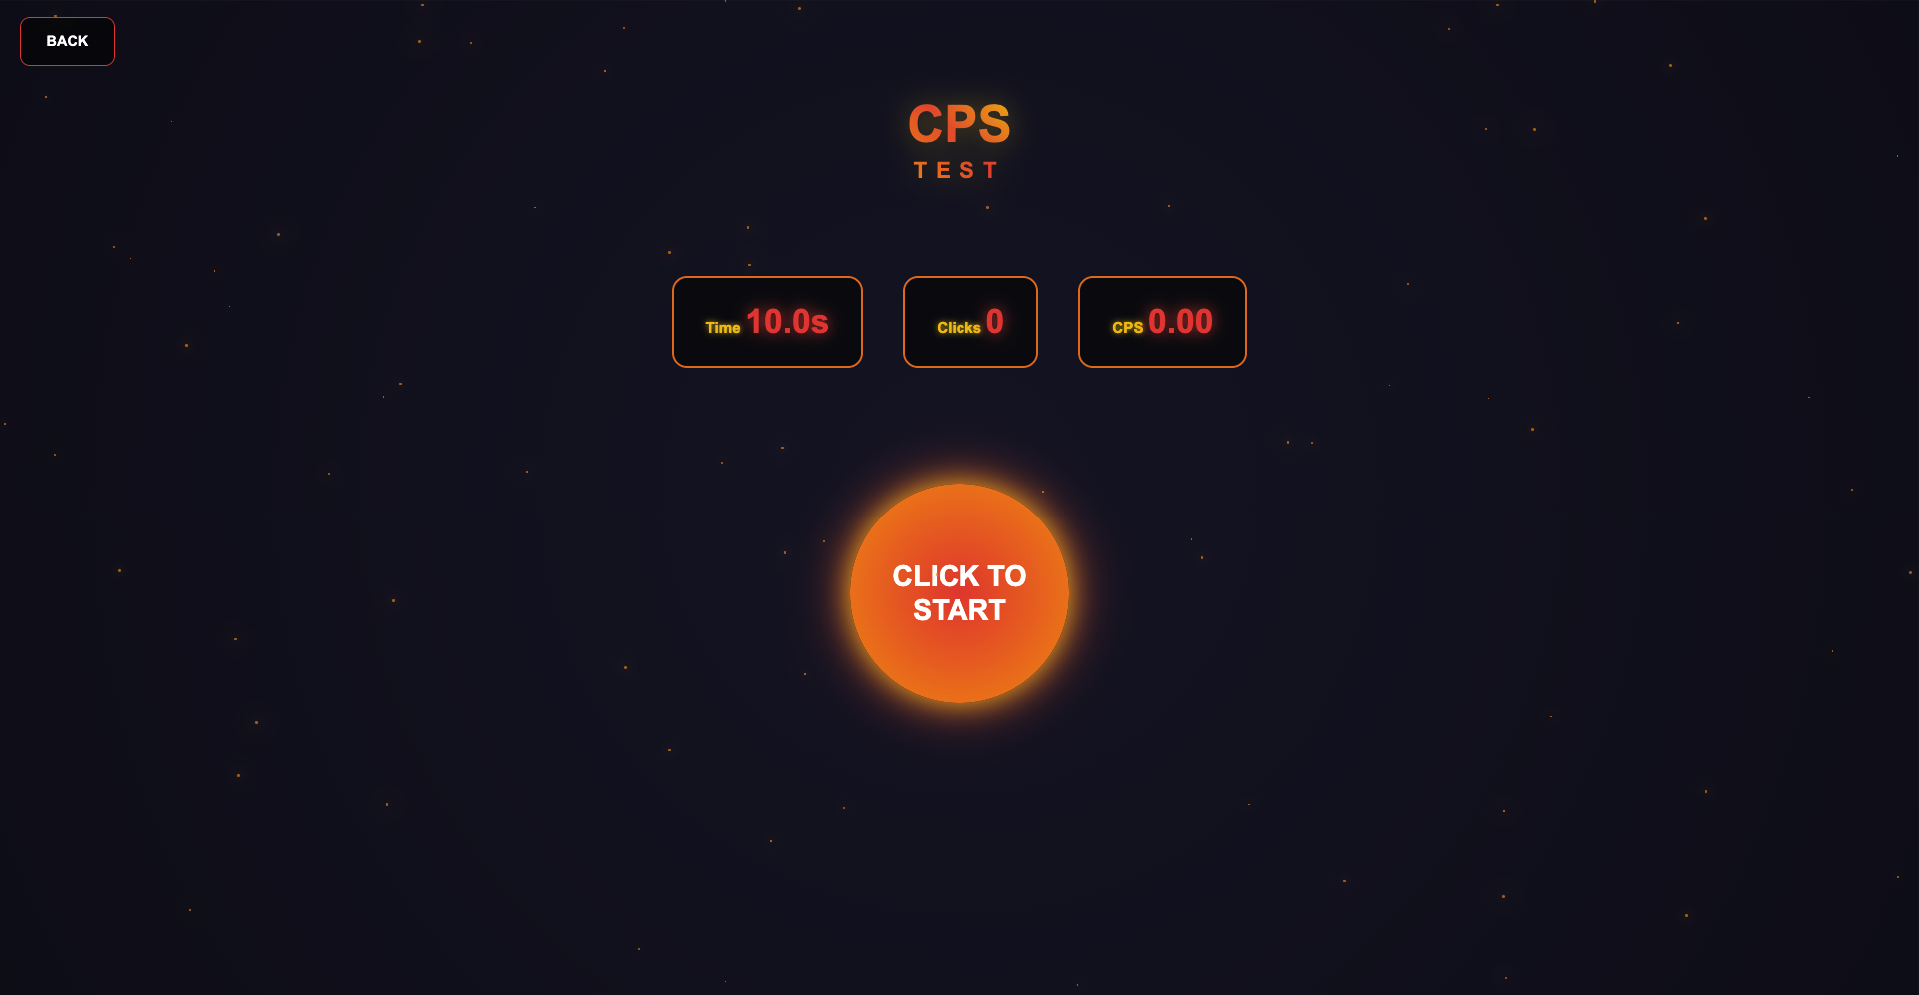
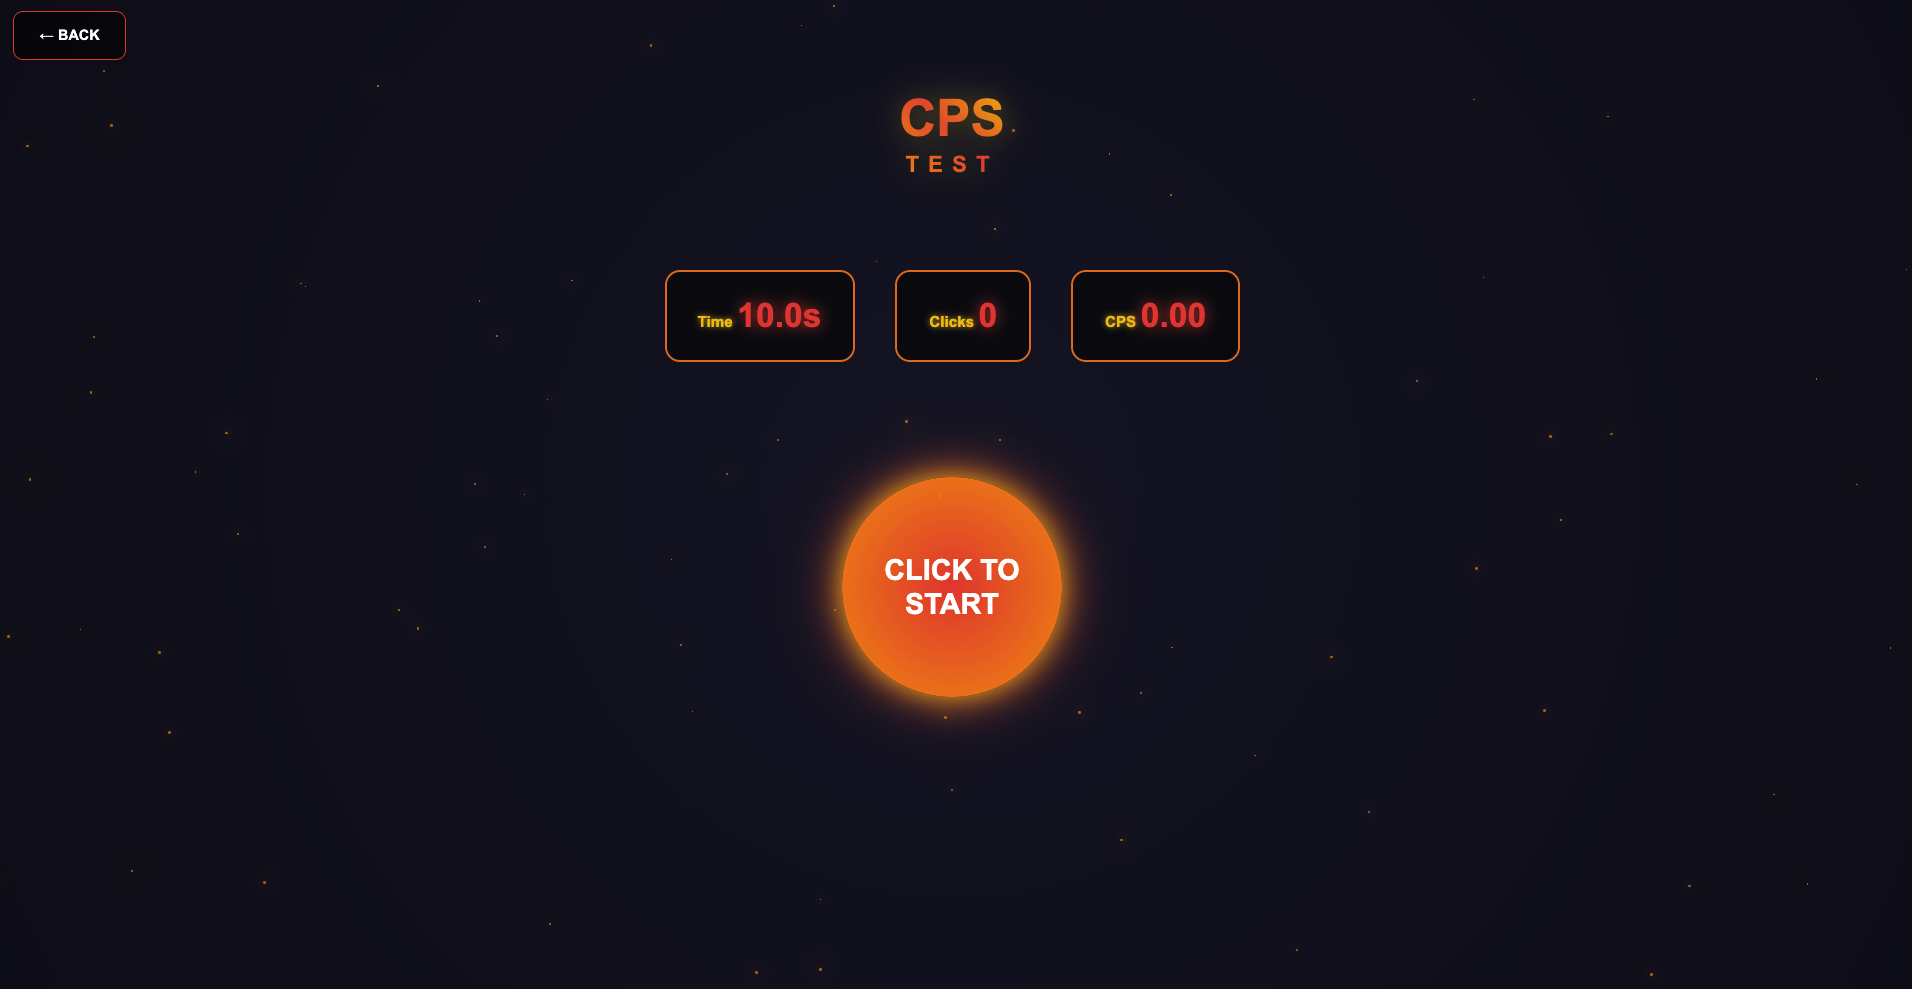
update

diff --git a/src/lib/CpsTest.svelte b/src/lib/CpsTest.svelte
@@ -94,10 +94,9 @@
       "
     ></div>
   {/each}
-
-  <!-- Fixed back button -->
-  <button class="back-btn" on:click={() => dispatch('back')}>
-    BACK
+  
+  <button class="back-btn" on:click={() => dispatch("back")}>
+    ← BACK
   </button>
 
   <!-- Title -->
@@ -105,7 +104,7 @@
     <h1>CPS<span>TEST</span></h1>
   </div>
 
-  <!-- HUD (always visible) -->
+  <!-- HUD -->
   <div class="hud">
     <div class="stat">
       <span class="label">Time</span>
@@ -121,7 +120,7 @@
     </div>
   </div>
 
-  <!-- Main button (stays fixed) -->
+  <!-- Main button -->
   <div class="button-wrapper">
     <button 
       on:click={clickBtn} 
@@ -310,7 +309,6 @@
     box-shadow: 0 0 10px #666;
   }
 
-  /* RESULT */
   .result {
     margin-top: 1rem;
   }
